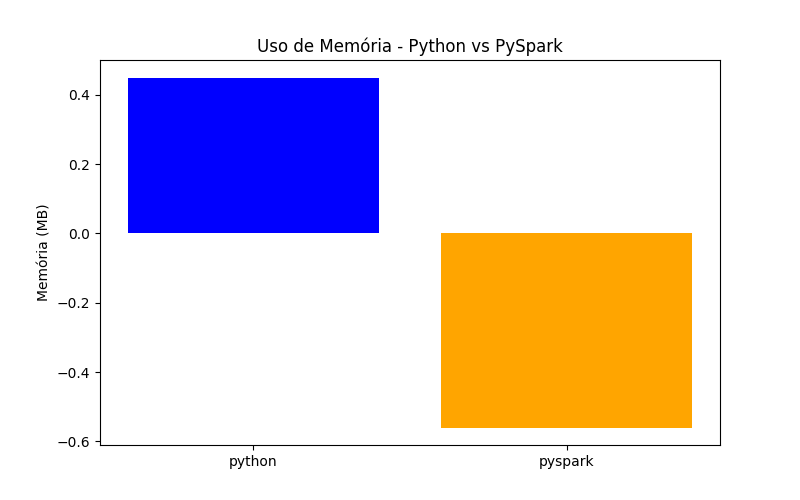
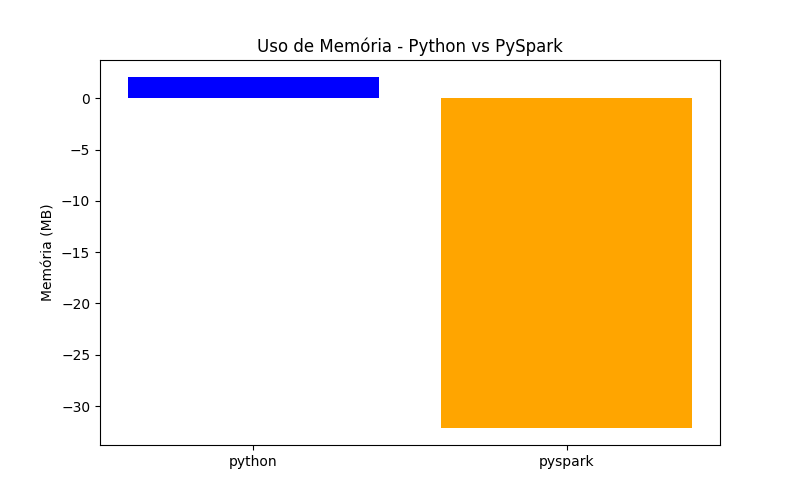
save

diff --git a/benchmarks_scripts/pythonXpySpark_states.py b/benchmarks_scripts/pythonXpySpark_states.py
@@ -28,22 +28,23 @@ def memory_usage_mb():
     process = psutil.Process(os.getpid())
     return process.memory_info().rss / 1024 / 1024  # em MB
 
-def measure_python(df):
+def measure_python():
     start_mem = memory_usage_mb()
     start_time = time.perf_counter()
-
-    result = df.groupby("State").count()
+    dfs = [pd.read_csv(os.path.join(DATA_DIR, file)) for file in os.listdir(DATA_DIR) if file.endswith(".csv")]
+    df_pandas = pd.concat(dfs, ignore_index=True)
+    result = df_pandas.groupby("State").count()
 
     end_time = time.perf_counter()
     end_mem = memory_usage_mb()
 
     return round(end_time - start_time, 4), round(end_mem - start_mem, 2)
 
-def measure_pyspark(spark, df):
+def measure_pyspark():
     start_mem = memory_usage_mb()
     start_time = time.perf_counter()
-
-    result = df.groupBy("State").count()
+    df_spark = spark.read.option("header", True).csv(os.path.join(DATA_DIR, "*.csv"))
+    result = df_spark.groupBy("State").count()
     result.collect()  # Força a execução
 
     end_time = time.perf_counter()
@@ -65,17 +66,20 @@ spark = SparkSession.builder \
 
 # ========= Carregar dados ========= 
 # Pandas 
-dfs = [pd.read_csv(os.path.join(DATA_DIR, file)) for file in os.listdir(DATA_DIR) if file.endswith(".csv")]
-df_pandas = pd.concat(dfs, ignore_index=True)
+#dfs = [pd.read_csv(os.path.join(DATA_DIR, file)) for file in os.listdir(DATA_DIR) if file.endswith(".csv")]
+#df_pandas = pd.concat(dfs, ignore_index=True)
 
 # PySpark 
-df_spark = spark.read.option("header", True).csv(os.path.join(DATA_DIR, "*.csv"))
+# df_spark = spark.read.option("header", True).csv(os.path.join(DATA_DIR, "*.csv"))
 
 # ========= Executar benchmarks ========= 
 print("\n🔍 Executando benchmarks...")
 
-time_py, mem_py = measure_python(df_pandas)
-time_sp, mem_sp = measure_pyspark(spark, df_spark)
+# importing datasets to memory
+#TODO
+# concat de tds 
+time_py, mem_py = measure_python() #df_pandas)
+time_sp, mem_sp = measure_pyspark() #spark, df_spark)
 
 print(f"[Python] {time_py} | {mem_py}MB")
 print(f"[PySpark] {time_sp} |{mem_sp}MB")
